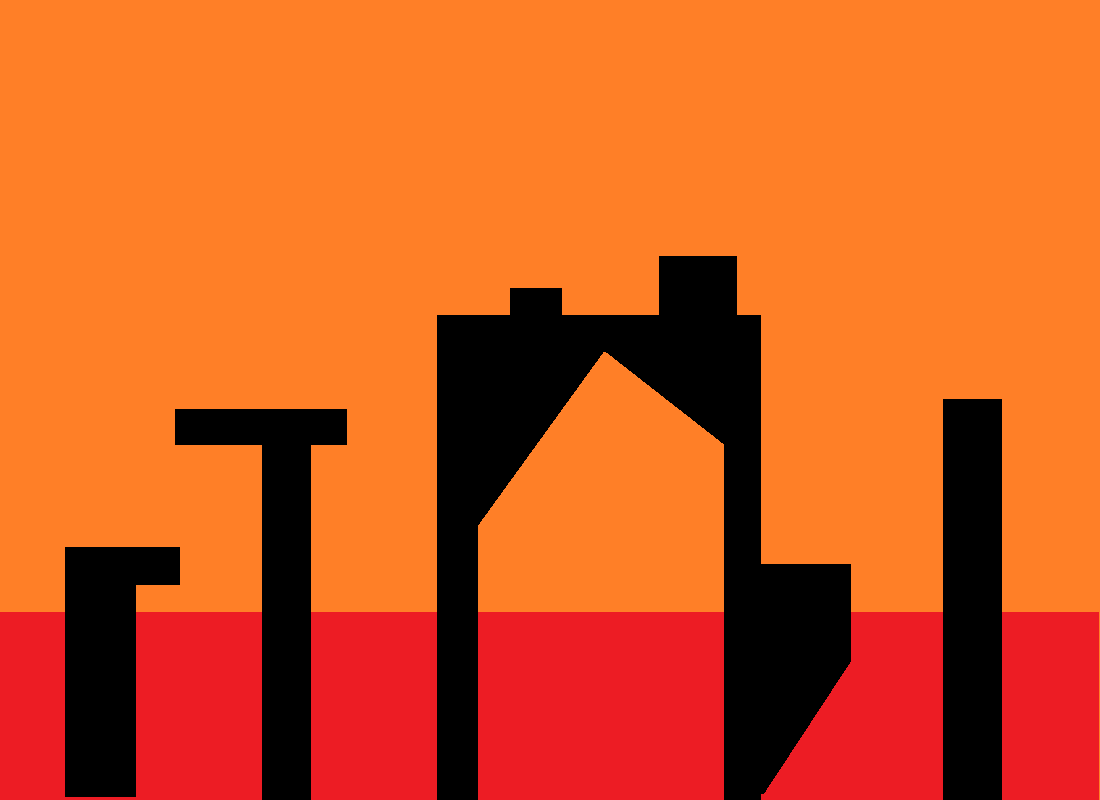
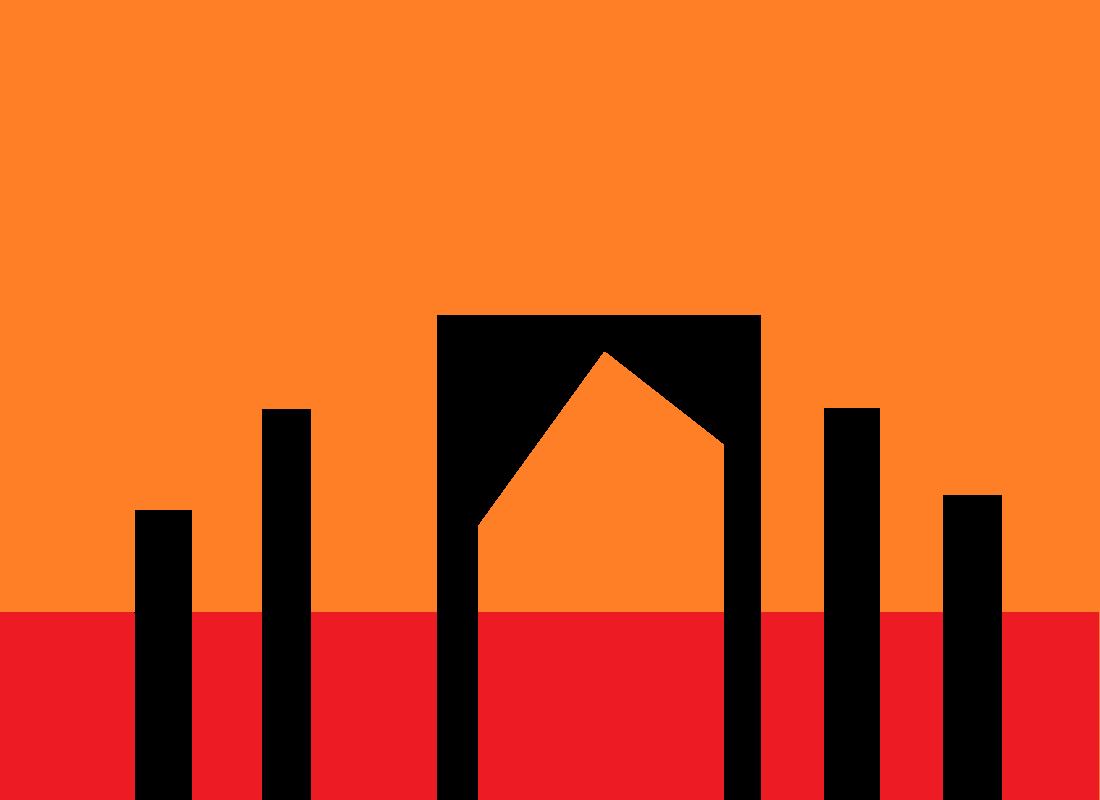
fix lava map

diff --git a/levels/LavaLevel.py b/levels/LavaLevel.py
@@ -11,17 +11,11 @@ class LavaLevel(Level):
         # TODO Add platforms
         self.lWall = Platform(screen, -100, 0, 100, 800)
         self.rWall = Platform(screen, 1100, 0, 100, 800)
-        self.p1 = Platform(screen, 65, 585, 70, 215)
-        self.p2 = Platform(screen, 262, 441, 48, 328)
-        self.p3 = Platform(screen, 943, 399, 58, 400)
-        self.p4 = Platform(screen, 761, 564, 92, 170)
-        self.p5 = Platform(screen, 736, 316, 25, 486)
-        self.p6 = Platform(screen, 437, 316, 42, 488)
-        self.p7 = Platform(screen, 438, 316, 322, 32)
-        self.p8 = Platform(screen, 510, 288, 52, 27)
-        self.p9 = Platform(screen, 659, 256, 78, 59)
-        self.p10 = Platform(screen, 175, 410, 170, 35)
-        self.p11 = Platform(screen, 65, 548, 115, 37)
+        self.p1 = Platform(screen, 135, 510, 57, 290)
+        self.p2 = Platform(screen, 261, 409, 51, 391)
+        self.p3 = Platform(screen, 437, 315, 324, 485)
+        self.p4 = Platform(screen, 823, 408, 58, 392)
+        self.p5 = Platform(screen, 943, 495, 60, 306)
         self.platformGroup = pygame.sprite.Group()
         self.platformGroup.add(self.lWall)
         self.platformGroup.add(self.rWall)
@@ -30,12 +24,6 @@ class LavaLevel(Level):
         self.platformGroup.add(self.p3)
         self.platformGroup.add(self.p4)
         self.platformGroup.add(self.p5)
-        self.platformGroup.add(self.p6)
-        self.platformGroup.add(self.p7)
-        self.platformGroup.add(self.p8)
-        self.platformGroup.add(self.p9)
-        self.platformGroup.add(self.p10)
-        self.platformGroup.add(self.p11)
 
     def update(self):
         pass

diff --git a/states/PlayerSelectionState.py b/states/PlayerSelectionState.py
@@ -71,7 +71,7 @@ class PlayerSelectionState(State):
                     if self.firstSelection:
                         self.player1 = self.rects[key]
                         self.player1.setPlayerNum(1)
-                        self.player1.setX(200)
+                        self.player1.setX(150)
                         self.player1.y = 100
                         self.firstSelection = False
                         self.player1Rect = key
@@ -79,7 +79,7 @@ class PlayerSelectionState(State):
                         self.player2 = self.rects[key]
                         self.player2Rect = key
                         self.player2.setPlayerNum(2)
-                        self.player2.setX(850)
+                        self.player2.setX(950)
                         self.player2.y = 100
                         self.handler.getStateManager().getState("GameState").setPlayers(self.player1, self.player2)
                         self.handler.getStateManager().setCurrentState("MapSelectionState")
